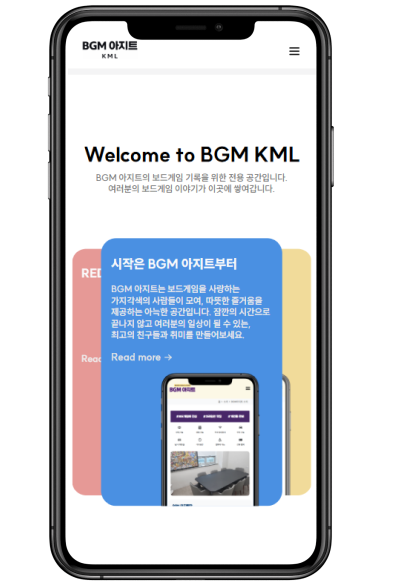
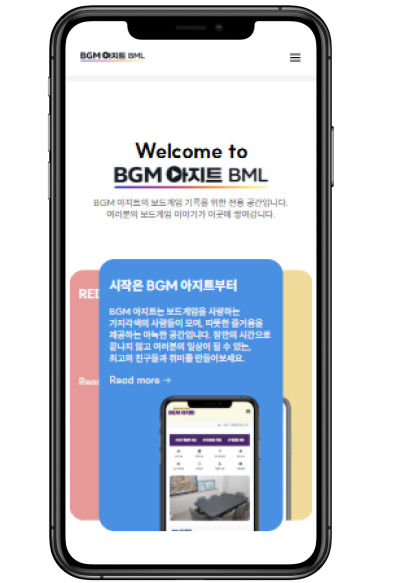
[Refactor] 이미지 변경

Changed region(s): [[0.15, 0.247, 0.78, 0.9262], [0.18, 0.0617, 0.36, 0.1235], [0.72, 0.0617, 0.75, 0.1235]]

diff --git a/bgm-agit-kml-front/app/components/Sidebar.tsx b/bgm-agit-kml-front/app/components/Sidebar.tsx
@@ -226,7 +226,7 @@ const MobileTop = styled.div`
     border-bottom: 10px solid rgb(244 244 245);
 
     img {
-      width: 100px;
+      width: 124px;
     }
   }
 `;
